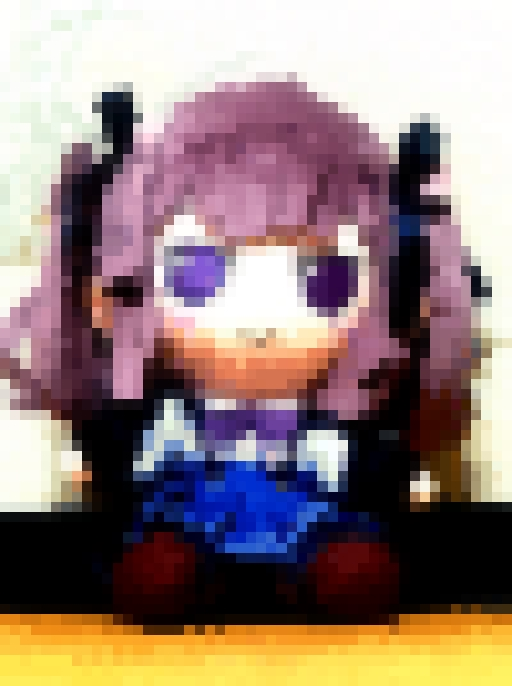
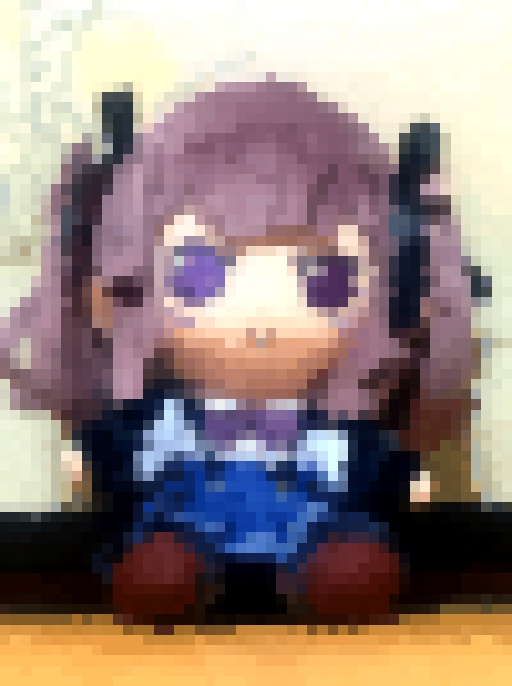
add filter

diff --git a/ndcd.go b/ndcd.go
@@ -29,6 +29,7 @@ type NdcdOption struct {
 	Ganmma            float64
 	Sharpen           bool
 	ColorQuantization int
+	Brightness        float64
 }
 
 func New(r io.Reader, optFunc ...func(opt *NdcdOption)) (*Ndcd, error) {
@@ -80,6 +81,10 @@ func New(r io.Reader, optFunc ...func(opt *NdcdOption)) (*Ndcd, error) {
 		baseImage = effect.Sharpen(baseImage)
 	}
 
+	if defaultOpt.Brightness != 0 {
+		baseImage = adjust.Brightness(baseImage, defaultOpt.Brightness)
+	}
+
 	if 0 < defaultOpt.ColorQuantization || defaultOpt.ColorQuantization <= 256 {
 		tmpFile, err := os.CreateTemp("", "ndcd")
 		if err != nil {
@@ -99,6 +104,7 @@ func New(r io.Reader, optFunc ...func(opt *NdcdOption)) (*Ndcd, error) {
 		if err != nil {
 			return nil, fmt.Errorf("failed to decode quantized image: %w", err)
 		}
+
 		baseImage = quantizeImage
 	}
 

diff --git a/ndcd/main.go b/ndcd/main.go
@@ -27,6 +27,7 @@ func main() {
 	gamma := flag.Float64("g", 0.0, "gamma")
 	sharpen := flag.Bool("s", false, "sharpen")
 	colorQuantization := flag.Int("cq", 0, "color quantization")
+	brightness := flag.Float64("b", 0.0, "brightness")
 
 	// 出力の拡大
 	outputExpandSize := flag.Int("oe", 0, "output expand size")
@@ -53,6 +54,7 @@ func main() {
 		opt.Ganmma = *gamma
 		opt.Sharpen = *sharpen
 		opt.ColorQuantization = *colorQuantization
+		opt.Brightness = *brightness
 	})
 	if err != nil {
 		log.Fatal(err)

diff --git a/README.md b/README.md
@@ -13,7 +13,7 @@ go install github.com/ieee0824/ndcd-go/ndcd
 
 ## command
 ```
-go install github.com/ieee0824/ndcd-go/ndcd -i .github/before.jpg -o .github/after.jpg -oh 64 -bt box -bs 10 -c 1 -g 0.8 -s -oe 512
+ndcd -i .github/before.jpg -o .github/after.jpg -oh 64 -bt box -bs 10 -c 1 -g 0.8 -s -oe 512
 ```
 
 ## sample
